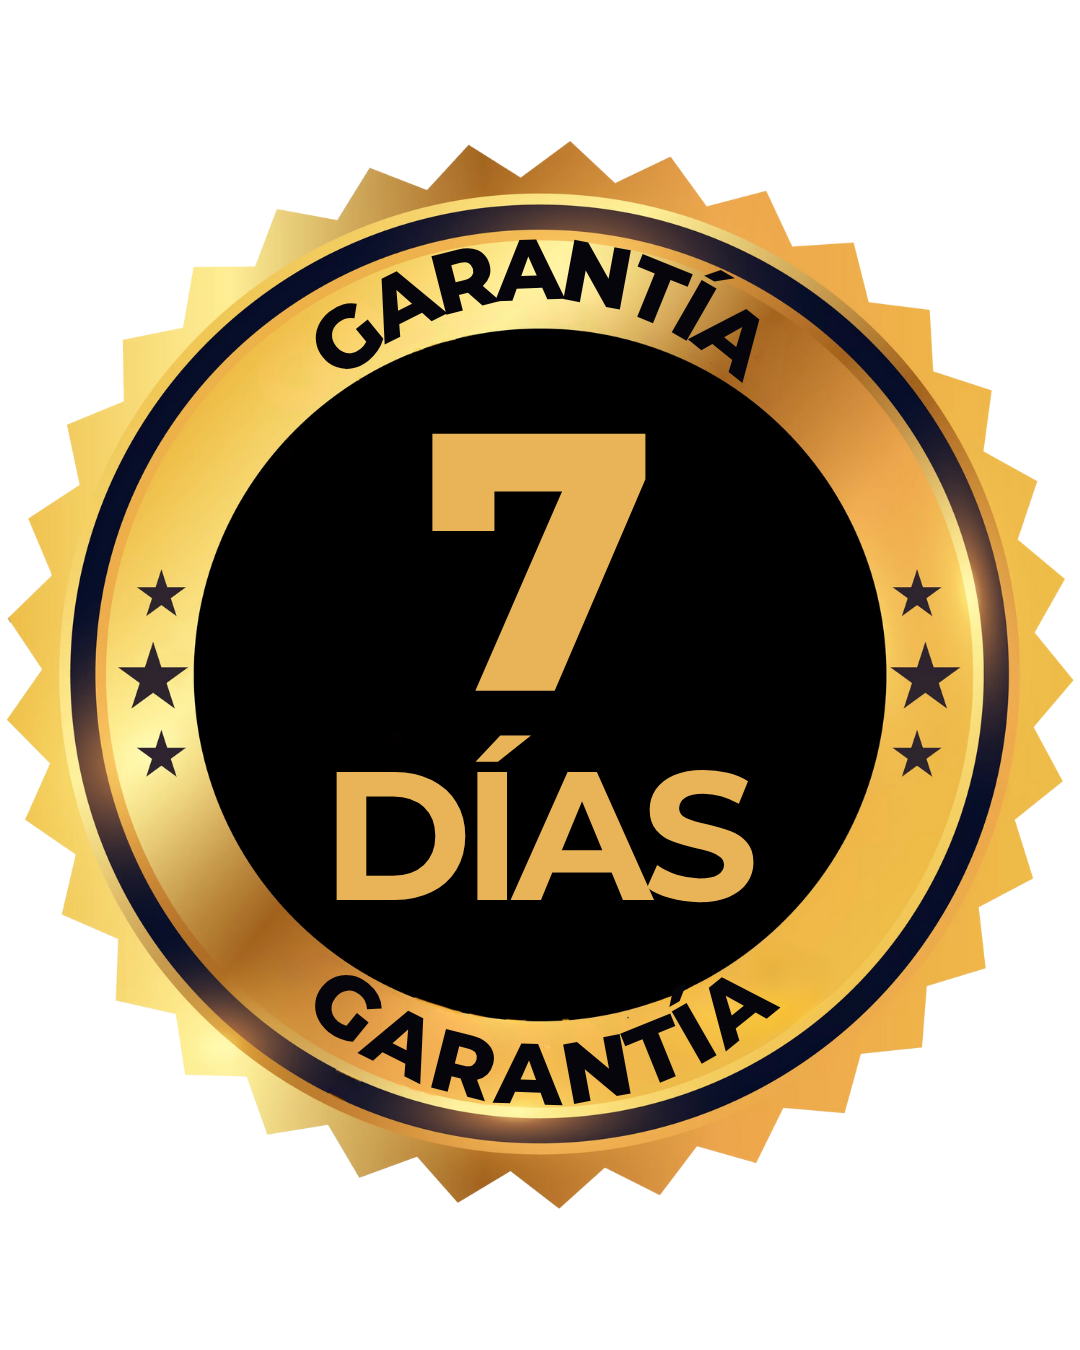
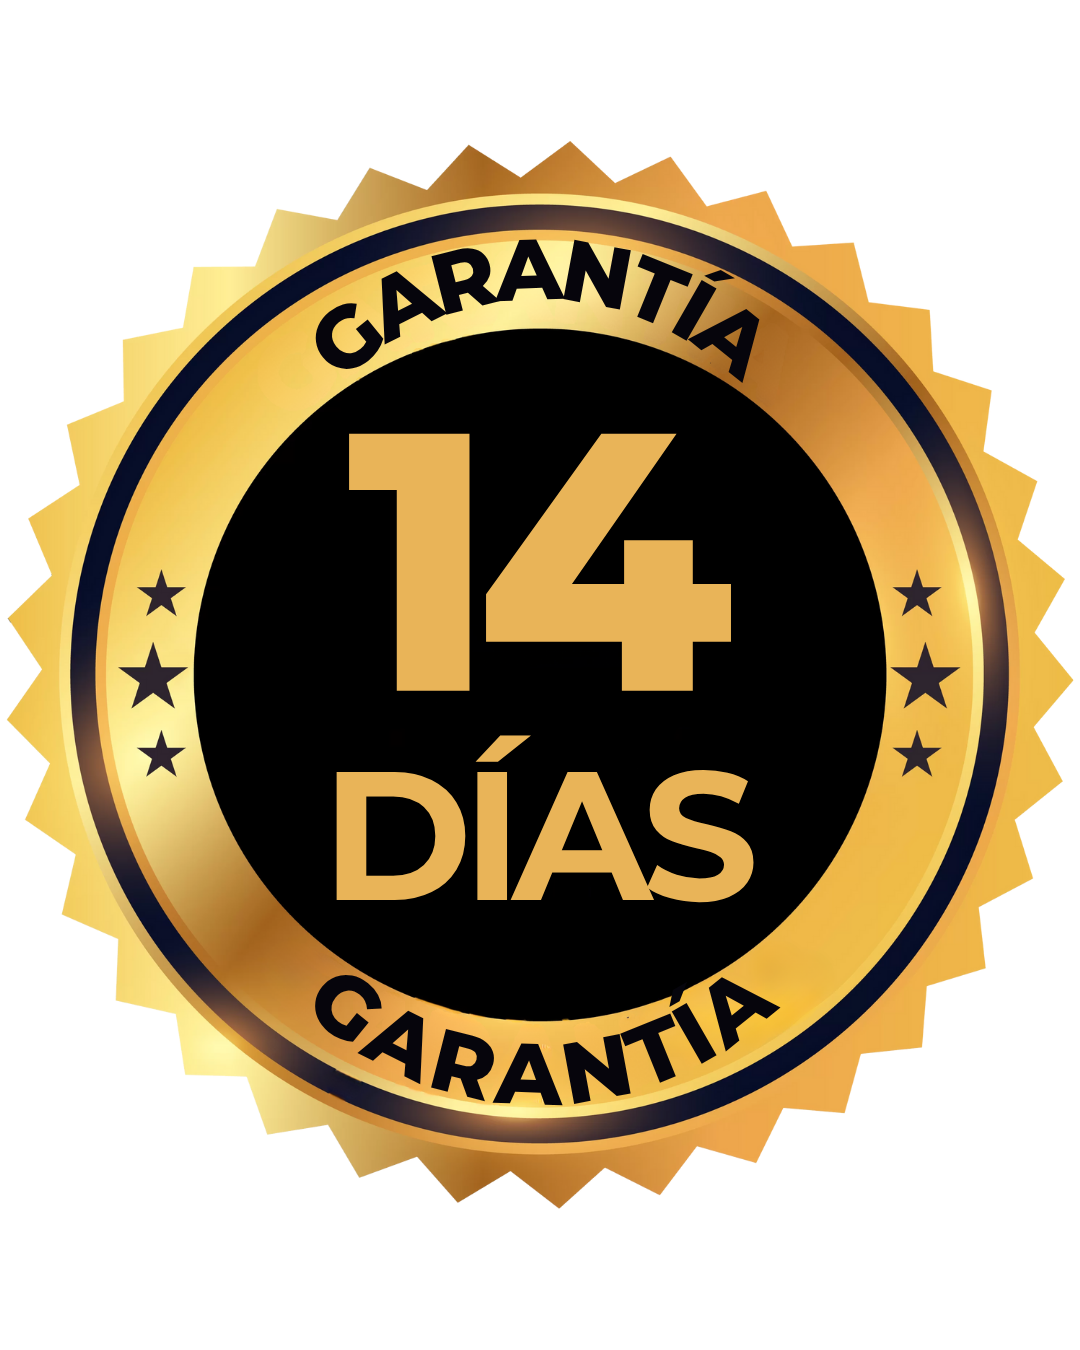
Fix: Corrigir problema de layout na página v1 - remover propriedades CSS que causavam deslocamento para esquerda após delay de 5min8s

Changed region(s): [[0.3056, 0.3111, 0.7028, 0.5289]]

diff --git a/v1/index.html b/v1/index.html
@@ -59,7 +59,6 @@
       background-size: 100% auto;
       background-position: center top;
       background-repeat: no-repeat;
-      width: 100vw;
       min-height: 100vh;
       display: flex;
       flex-direction: column;
@@ -68,7 +67,6 @@
       text-align: center;
       position: relative;
       padding: 40px 20px;
-      margin-left: calc(-50vw + 50%);
     }
     
     .hero-section::before {
@@ -682,6 +680,13 @@
       }
       
       .countdown-content {
+        display: flex;
+        justify-content: center;
+        align-items: center;
+        gap: 20px;
+      }
+      
+      .countdown-content {
         flex-direction: column;
         gap: 10px;
         text-align: center;
@@ -876,9 +881,9 @@
         
         <!-- Garantia Card -->
         <div class="garantia-card">
-          <h3 class="garantia-title">7 días de garantía incondicional</h3>
+          <h3 class="garantia-title">14 días de garantía incondicional</h3>
           <p class="garantia-text">
-            Experimenta la Dieta del Cazador por 7 días y si no te gusta, ¡te devolvemos toda tu inversión!
+            Experimenta la Dieta del Cazador por 14 días y si no te gusta, ¡te devolvemos toda tu inversión!
           </p>
           <p class="garantia-text">
             Pago 100% seguro procesado por Hotmart, plataforma líder en ventas de productos digitales en América Latina.
@@ -1081,7 +1086,7 @@
                   <span class="faq-toggle">+</span>
                 </div>
                 <div class="faq-answer">
-                  <p>Tienes 7 días de garantía total. Si por cualquier motivo no estás satisfecho, devolvemos tu dinero sin preguntas. Tu inversión está 100% protegida.</p>
+                  <p>Tienes 14 días de garantía total. Si por cualquier motivo no estás satisfecho, devolvemos tu dinero sin preguntas. Tu inversión está 100% protegida.</p>
                 </div>
               </div>
             </div>
@@ -1629,7 +1634,7 @@
         // Show hidden elements
         const hiddenElements = document.querySelectorAll('.hidden-by-delay');
         hiddenElements.forEach(el => {
-          el.style.display = 'block';
+          el.classList.remove('hidden-by-delay');
         });
 
         // Start toasts
